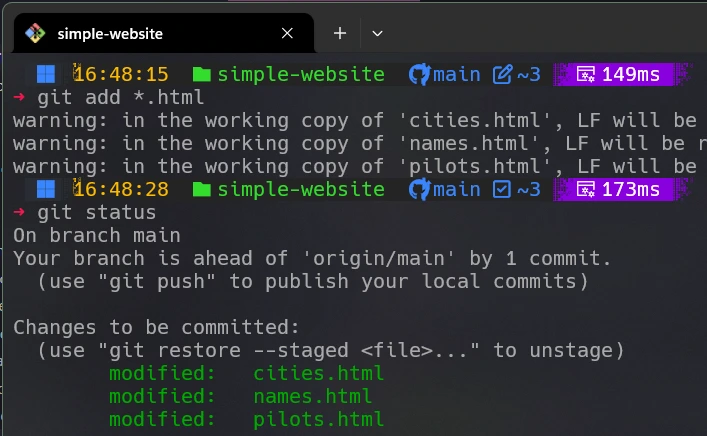
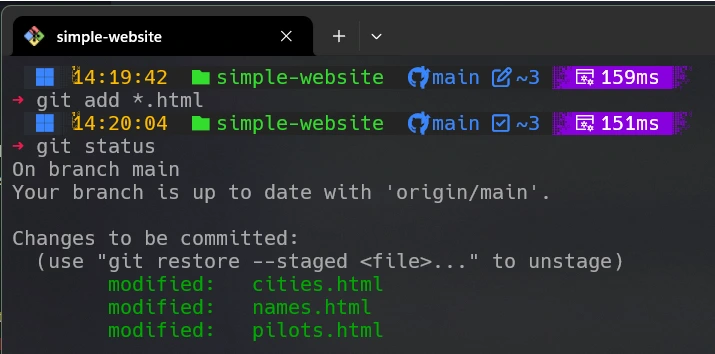
feat: add images and update templates for Git course  add git diff documentation and tutorial images

diff --git a/app/templates/git-course/branch.html b/app/templates/git-course/branch.html
@@ -1,0 +1,162 @@
+<!DOCTYPE html>
+<html lang="pt-BR">
+<head>
+    <meta charset="UTF-8">
+    <meta name="viewport" content="width=device-width, initial-scale=1.0">
+    <title>Git branch</title>
+    <link rel="stylesheet" href="/app/static/css/git-course.css">
+    <link rel="stylesheet" href="https://cdnjs.cloudflare.com/ajax/libs/prism/1.25.0/themes/prism.min.css">
+    <link rel="preconnect" href="https://fonts.googleapis.com">
+    <link rel="preconnect" href="https://fonts.gstatic.com" crossorigin>
+    <link href="https://fonts.googleapis.com/css2?family=Victor+Mono:ital,wght@0,100..700;1,100..700&display=swap" rel="stylesheet">
+    <script src="https://cdnjs.cloudflare.com/ajax/libs/prism/1.25.0/prism.min.js"></script>
+    <script src="https://cdnjs.cloudflare.com/ajax/libs/prism/1.25.0/components/prism-bash.min.js"></script>
+    <script type="module">
+        import mermaid from 'https://cdn.jsdelivr.net/npm/mermaid@10/dist/mermaid.esm.min.mjs';
+        mermaid.initialize({ startOnLoad: true });
+    </script>
+    <style>
+    .spaced-pre {
+    padding-bottom: 20px; /* Adds spacing below */
+    }
+
+    .spaced-p {
+    padding-top: 20px; /* Adds spacing above */
+    }
+
+    .mermaid {
+        background-color: black; /* Adds black background to mermaid div */
+        color: white; /* Ensures text color is readable */
+        padding: 10px; /* Adds padding for better readability */
+    }
+    </style>
+</head>
+<body>
+    <div class="container">
+        <h1>O que é um 'branch' (ramo)? </h1>
+        <p>Um 'branch' representa uma linha independente de desenvolvimento no projeto com sua própria história de comites.
+            Voce pode listar os 'branches' no repositório local bastando usar o comando:</p>
+        <pre class="spaced-pre"><code class="language-bash">git branch</code></pre>
+        Quando se associa o parâmetro '--remote' ao comando 'git branch' é possível listar os 'branches' remotos.
+        <pre class="spaced-pre"><code class="language-bash">git branch --remote</code></pre>
+
+        <img src="/app/static/images/git-branch-re.png" alt="Imagem do git branch e do git branch remoto" style="max-width: 48%; height: auto;">
+
+        <p style="font-size: 1em; color: #5c4033; text-align: justify; margin-top: -10px; margin-bottom: 20px;">
+        Agora nosso repositório posui somente um único ramo, 'branch' chamado 'main'. O ramo 'main' é o ramo padrão do Git.
+        Este ramo é criado automaticamente quando se inicia um novo repositório. O ramo 'main' é o ramo principal do projeto. Ou seja é deafult.
+        Se compararmos o projeto Git como uma árvore o ramo 'main' seria o tronco da árvore. O ramo 'main' é o ramo que contém o código de produção.
+        A partir do tronco é possivel criarmos linhas separadas de desenvolvimento como ramos idependentes com seus próprios comites.
+        </p>"
+
+        <img src="/app/static/images/trunck.png" alt="Screenshot do pilots HTML" style="max-width: 48%; height: auto;">
+
+        <p style="font-size: 1em; color: #5c4033; text-align: justify; margin-top: -10px; margin-bottom: 20px;">Na imagem anterior  a linha representa o ramo principal, 'main' com
+            cada comite mostrado como um círculo. A seta indica a direção do desenvolvimento, ou seja 'HEAD' e aponta para o último comite.
+            O último comite é o comite mais recente. O comite mais recente é o comite que está no topo da pilha de comites. De baixo para cima como pode-se ver na imagem abaixo do git log.
+        </p>
+
+        <img src="/app/static/images/git-log-oneline.png" alt="Tela mostrando o histórico de comites realizados" style="max-width: 100%; height: auto;">
+
+        <h3>Comparando versões</h3>
+        <p style="font-size: 1em; color: #5c4033; text-align: justify; margin-top: -10px; margin-bottom: 20px;">É muito importante notar que existem várias versões de um
+            arquivo em um repositório Git. Cada versão de um arquivo é chamada de 'commit'. Um 'commit' é uma versão de um arquivo em um repositório Git.
+
+       <ul>
+        <li>Diretório de trabalho - constitui uma versão de seus arquivos em processo de edição</li>
+        <li>A versão 'staged' - ou seja quando voce adicionou utilizando o 'git add' colocando seus arquivos no chamado 'index' , esperando para serem comitados.</li>
+        <li>A versão comitada - uma versão para cada comite.</li>
+       </ul>
+       <p style="font-size: 1em; color: #5c4033; text-align: justify; margin-top: -10px; margin-bottom: 20px;">Num mundo real quando trabalhamos sem uma ferramenta de controle
+        de versão como o Git, voce pode ter várias versões de um arquivo em seu diretório de trabalho. E voce simplesmente salva um mesmo arquivo várias vezes ou até mesmo
+        salva com outro nome. Com o Git voce pode salvar várias versões de um arquivo em um repositório Git. Cada versão de um arquivo é chamada de 'commit'.
+        Um 'commit' é uma versão de um arquivo em um repositório Git.
+        Pensando em um trabalho de desenvolvimento de software, cada 'commit' representa um conjunto de mudanças em um arquivo ou em um conjunto de arquivos.
+       </p>
+
+       <p style="font-size: 1em; color: #5c4033; text-align: justify; margin-top: -10px; margin-bottom: 20px;">Agora vamos conhecer um comando que mostra as mudanças no diretório de trabalho, no 'index e nas versões de comites.</p>
+
+       <pre class="spaced-pre"><code class="language-bash">git diff</code></pre>
+
+
+       <p class="spaced-p" style="font-size: 1em; color: #5c4033; text-align: justify; margin-top: -10px; margin-bottom: 20px;">Para darmos início ao processo de utilização do git diff
+        torna-se importante saber o status de nossa última intervenção no repositório quando realizadmos o comite da letra 'D'. A imagem abaixo registra o status e nos informa
+        que estamos 1(um) comite a frente do repositório remoto.</p>
+
+       <img src="/app/static/images/status_comit_let_D.png" alt="Tela mostrando o status do repositório" style="max-width: 100%; height: auto;">
+
+       <p style="font-size: 1em; color: #5c4033; text-align: justify; margin-top: -10px; margin-bottom: 20px;">Vamos implementar uma nova 'feature request' adicionando a letra 'E'
+        aos arquivos pilots.html, cities.html e names.html da mesma forma anteriormente realizada com a letra 'D'.</p>
+
+        <img src="/app/static/images/add_letter.png" alt="Tela mostrando a adição da letra 'E' nos arquivos HTML." style="max-width: 100%; height: auto;">
+
+        <p style="font-size: 1em; color: #5c4033; text-align: justify; margin-top: -10px; margin-bottom: 20px;"></p>Feitas as adições nos arquivos HTML, vamos adicionar os
+        arquivos  ao index, usando o <code class="language-bash">git add</code>.</p>
+
+        <img src="/app/static/images/git_add_let_F.webp" alt="Tela mostrando o status e a aplicação do git add." style="max-width: 100%; height: auto;">
+
+        <p style="font-size: 1em; color: #5c4033; text-align: justify; margin-top: -10px; margin-bottom: 20px;">Vamos implementar novamente uma 'feature request'
+            adicionando a letra 'F' aos arquivos pilots.html, cities.html e names.html na seguinte ordem repectivamente: 'Foxtrot', 'Fillmore' e 'Fred',da mesma forma anteriormente realizada com a letra 'E'.</p>
+
+       <img src="/app/static/images/git_add_let_E.webp" alt="Tela mostrando o status após a adição da letra F." style="max-width: 100%; height: auto;">
+
+       <p style="font-size: 1em; color: #5c4033; text-align: justify; margin-top: -10px; margin-bottom: 20px;">A imagem anterior mostra o status depois da aplicação da letra F.
+        Aqui é muito importante perceber que as adições da letra 'F' não foram submetidas ao  <code class="language-bash">git add</code> por isto permanecem sem o controle do git ao passo
+       que as adições das letra 'E' permitem que os arquivos sejam comitados.</p>
+
+       <img src="/app/static/images/git-log-oneline.png" alt="Tela mostrando o log após a adição da letra D." style="max-width: 100%; height: auto;">
+
+       <p style="font-size: 1em; color: #5c4033; text-align: justify; margin-top: -10px; margin-bottom: 20px;">Temos então três situações distintas ou seja,
+        a letra 'D' foi adicionada e comitada, a letra 'E' foi adicionada mas não comitada e a letra 'F' não foi adicionada e nem comitada.
+       </p>
+
+
+
+
+
+
+
+
+           <section>
+            <h3>Git Graph</h3>
+            <p>Diagrama Mermaid  para o Git graph</p>
+            <div class="mermaid">
+                %%{init: { 'logLevel': 'debug', 'theme': 'base', 'gitGraph': {'showBranches': true, 'showCommitLabel':true,'mainBranchOrder': 0}} }%%
+                gitGraph
+                commit id: "0-109f780"
+                commit id: "1-d298f74"
+                commit id: "2-2dded79"
+            </div>
+            <h3>Mermaid Code</h3>
+            <p>Código Mermaid para o Git graph</p>
+            <div class="code-box">
+                <pre>
+                    <code>
+%%{init: { 'logLevel': 'debug', 'theme': 'base', 'gitGraph': {'showBranches': true, 'showCommitLabel':true,'mainBranchOrder': 0}} }%%
+
+                        gitGraph
+                        commit id: "0-109f780"
+                        commit id: "1-d298f74"
+                        commit id: "2-2dded79"
+                    </code>
+                </pre>
+            </div>
+        </section>
+        <footer style="text-align: center; margin-top: 20px; padding: 10px; background-color: #ead8e7; border-top: 1px solid #ddd;box-shadow: 0 8px 32px 0 rgba(31, 38, 135, 0.37);">
+            <div style="display: flex; align-items: center; justify-content: center;">
+                <span><strong>Hosted on GitHub Pages</strong></span>
+                <a href="http://jigsaw.w3.org/css-validator/check/referer" style="margin-left: 10px;">
+                    <img style="border:0;width:88px;height:31px" src="http://jigsaw.w3.org/css-validator/images/vcss" alt="CSS válido!">
+                </a>
+            </div>
+            <nav>
+                <a href="feature_req.html" style="margin: 0 10px; color: #5c4033; text-decoration: none;">Próximo: git add"</a> |
+                <a href="index.html" style="margin: 0 10px; color: #5c4033; text-decoration: none;">Voltar</a> |
+                <a href="/terms" style="margin: 0 10px; color: #5c4033; text-decoration: none;">Terms of Service</a> |
+                <a href="/privacy" style="margin: 0 10px; color: #5c4033; text-decoration: none;">Privacy Policy</a>
+            </nav>
+        </footer>
+    </div>
+    <script>Prism.highlightAll();</script>
+</body>
+</html>

diff --git a/app/templates/git-course/feature_req.html b/app/templates/git-course/feature_req.html
@@ -15,6 +15,13 @@
         import mermaid from 'https://cdn.jsdelivr.net/npm/mermaid@10/dist/mermaid.esm.min.mjs';
         mermaid.initialize({ startOnLoad: true });
     </script>
+    <style>
+        .mermaid {
+         background-color: black; /* Adds black background to mermaid div */
+         color: white; /* Ensures text color is readable */
+         padding: 10px; /* Adds padding for better readability */
+        }
+    </style>
 </head>
 <body>
     <div class="container">
@@ -81,15 +88,44 @@
 
                 <img src="/app/static/images/html_git-add.webp" alt="Tela mostrando o resultado após usar o comando 'git add" style="max-width: 100%; height: auto;">
 
+                <p style="font-size: 1em; color: #5c4033; text-align: justify; margin-top: -10px; margin-bottom: 20px;">A imagem abaixo mostra o comite realizado
+                    após a adição dos arquivos HTML  acrescidos da letra D ao repositório bem como o comando git status mostrando que o repositório local está a frente do repositório remoto.
+                </p>
+                    <img src="/app/static/images/git-commit_st.png" alt="Tela mostrando o resultado após usar o comando 'git add" style="max-width: 100%; height: auto;">
+
+                 <p style="font-size: 1em; color: #5c4033; text-align: justify; margin-top: -10px; margin-bottom: 20px;">Pelas últimas ações o projeto do site fonético
+                    está evoluindo. Depois de criar o site no GitHub em um repositório local via clone, foram adicionados os arquivos HTML e o folder 'style' e agora por
+                    último implementado o "feature request" com a inclusão da letra 'D' nos arquivos HTML.</p>
+
+                <h3>Vendo a história do projeto</h3>
+
+                 <p style="font-size: 1em; color: #5c4033; text-align: justify; margin-top: -10px; margin-bottom: 20px;">Voce pode verificar a história dos comites no projeto usando o comando:
+                 <pre><code class="language-bash">git log</code></pre>
+                 </p>
+                 <img src="/app/static/images/git_log.webp" alt="Tela mostrando o histórico de comites realizados" style="max-width: 100%; height: auto;">
+
+                 <p style="font-size: 1em; color: #5c4033; text-align: justify; margin-top: -10px; margin-bottom: 20px;">A imagem acima mostra cada comite associado ao seu longo hash como identificador único do git
+                    bem como o autor e data de realização do comite. Nota-se tambem que as mensagens que compuseram cadas um dos comites são apresentadas pelo git log. O comite mais recente é mostrado no topo da lista. Pode-se usar tambem outros comandos do tipo <code class="language-bash">git log --oneline --decorate</code> para mostrar a lista de comites de
+                    forma mais resumida conforme a imagem abaixo.
+                 </p>
+                 <img src="/app/static/images/git-log-oneline.png" alt="Tela mostrando o histórico de comites realizados" style="max-width: 100%; height: auto;">
+
+                 <p style="font-size: 1em; color: #5c4033; text-align: justify; margin-top: -10px; margin-bottom: 20px;">Observa-se na imagem anterior que o hash de cada comite
+                    é um conjunto de 7 caracteres alfanuméricos extraido do início do longo hash.
+                 </p>
+
+                 <p style="font-size: 1em; color: #5c4033; text-align: justify; margin-top: -10px; margin-bottom: 20px;">O Git Graph abaixo está sendo construído a partir de cada comite efetivado,
+                    considerando o ramo (branch) 'main'  no qual estamos trabalhando.</p>
+
            <section>
             <h3>Git Graph</h3>
             <p>Diagrama Mermaid  para o Git graph</p>
             <div class="mermaid">
                 %%{init: { 'logLevel': 'debug', 'theme': 'base', 'gitGraph': {'showBranches': true, 'showCommitLabel':true,'mainBranchOrder': 0}} }%%
                 gitGraph
-                commit id: "165c4b6"
-                commit id: "de194dc"
-                commit id: "596aa83"
+                commit id: "0-109f780"
+                commit id: "1-d298f74"
+                commit id: "2-2dded79"
             </div>
             <h3>Mermaid Code</h3>
             <p>Código Mermaid para o Git graph</p>
@@ -99,9 +135,9 @@
 %%{init: { 'logLevel': 'debug', 'theme': 'base', 'gitGraph': {'showBranches': true, 'showCommitLabel':true,'mainBranchOrder': 0}} }%%
 
                         gitGraph
-                        commit id: "165c4b6"
-                        commit id: "de194dc"
-                        commit id: "596aa83"
+                        commit id: "0-109f780"
+                        commit id: "1-d298f74"
+                        commit id: "2-2dded79"
                     </code>
                 </pre>
             </div>

diff --git a/app/templates/git-course/git-commit.html b/app/templates/git-course/git-commit.html
@@ -15,7 +15,14 @@
         import mermaid from 'https://cdn.jsdelivr.net/npm/mermaid@10/dist/mermaid.esm.min.mjs';
         mermaid.initialize({ startOnLoad: true });
     </script>
-</head>
+    <style>
+            .mermaid {
+         background-color: black; /* Adds black background to mermaid div */
+         color: white; /* Ensures text color is readable */
+         padding: 10px; /* Adds padding for better readability */
+     }
+    </style>
+    </head>
 <body>
     <div class="container">
         <h1>Git commit </h1>

diff --git a/notes.md b/notes.md
@@ -33,4 +33,32 @@ For quick notes related to specific parts of your code, you can use comments dir
 
  <!-- Header section with logo and banner message -->
 
-Create the file to connect Git to Gihub (SSH)
+
+### Explanation
+
+1. **CSS for `.spaced-pre` and `.spaced-p` Classes**: Added a `<style>` block in the `<head>` section to define custom styles for the `.spaced-pre` and `.spaced-p` classes, adding padding to the bottom of `<pre>` elements and the top of `<p>` elements.
+   ```html
+   <style>
+       .spaced-pre {
+           padding-bottom: 20px; /* Adds spacing below */
+       }
+
+       .spaced-p {
+           padding-top: 20px; /* Adds spacing above */
+       }
+
+        .mermaid {
+        background-color: black; /* Adds black background to mermaid div */
+        color: white; /* Ensures text color is readable */
+        padding: 10px; /* Adds padding for better readability */
+    }
+   </style>
+   ```
+
+2. **Applied `.spaced-pre` and `.spaced-p` Classes**: Added the `spaced-pre` class to the `<pre>` elements and the `spaced-p` class to the `<p>` elements to apply the custom padding.
+   ```html
+   <pre class="spaced-pre"><code class="language-bash">git diff</code></pre>
+   <p class="spaced-p" style="font-size: 1em; color: #5c4033; text-align: justify; margin-top: -10px; margin-bottom: 20px;">Para darmos início ao processo de utilização do git diff
+   ```
+
+By following these steps, you can ensure that the spacing is applied correctly between the `<pre>` block and the following `<p>` element.
